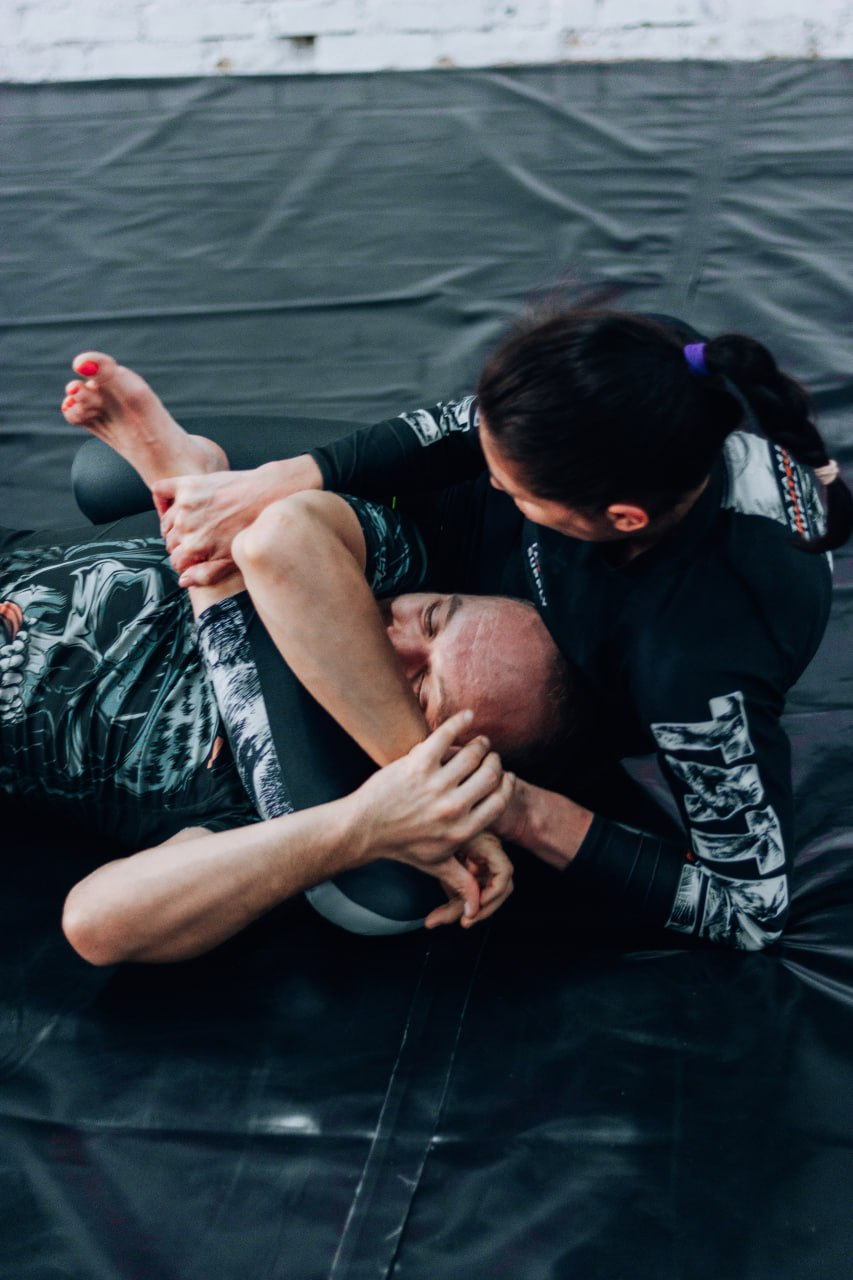
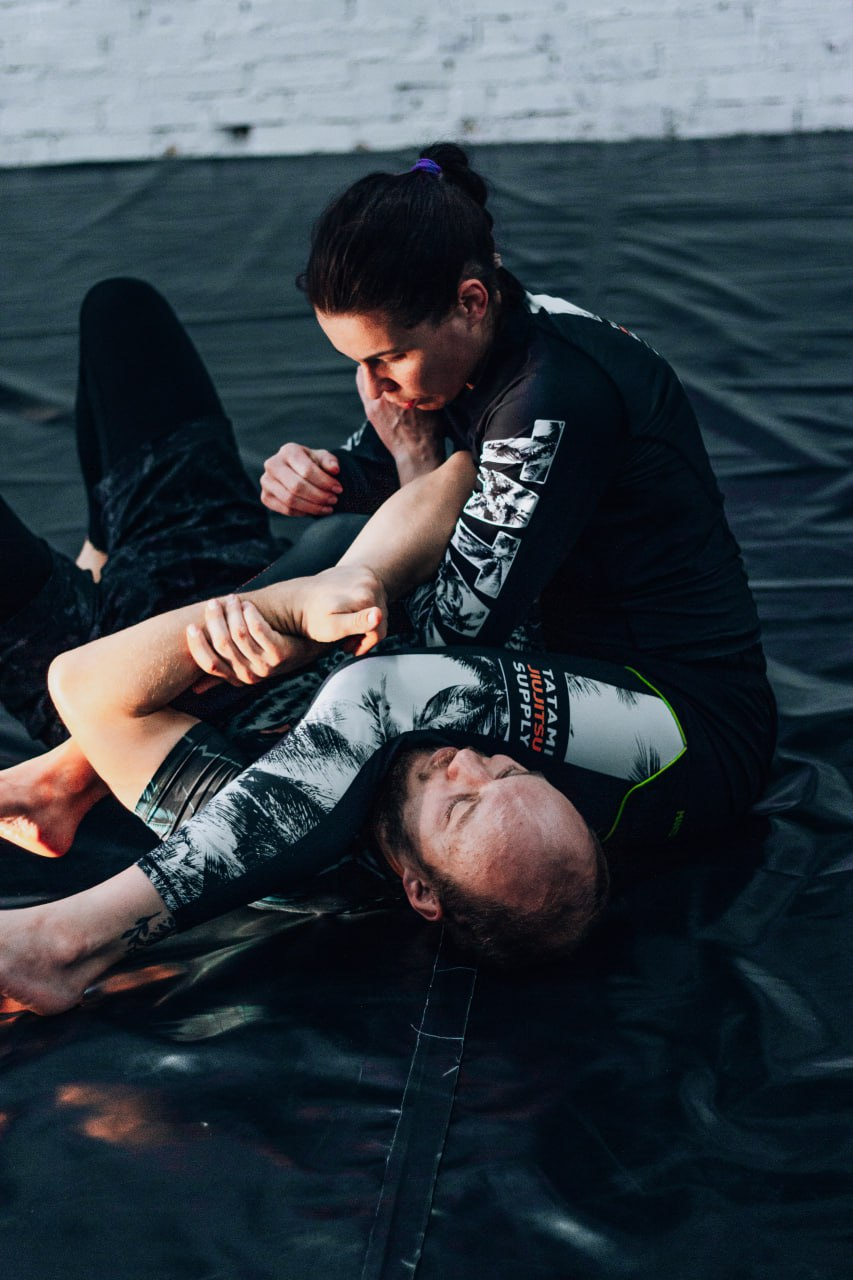
Update schedule page background

diff --git a/src/components/sections/SchedulePageSection.tsx b/src/components/sections/SchedulePageSection.tsx
@@ -39,15 +39,15 @@ export function SchedulePageSection({
         <Image
           alt=""
           aria-hidden="true"
-          className="object-cover object-center"
+          className="object-cover object-[center_24%] sm:object-[center_20%] lg:object-[center_18%]"
           fill
           priority
           sizes="100vw"
           src={content.backgroundImageSrc}
         />
-        <div className="absolute inset-0 bg-[linear-gradient(180deg,rgb(4_6_8_/_0.62)_0%,rgb(4_6_8_/_0.78)_26%,rgb(4_6_8_/_0.9)_100%)]" />
+        <div className="absolute inset-0 bg-[linear-gradient(180deg,rgb(4_6_8_/_0.78)_0%,rgb(4_6_8_/_0.82)_32%,rgb(4_6_8_/_0.88)_100%)]" />
         <div className="absolute inset-0 bg-[radial-gradient(circle_at_top,rgb(255_255_255_/_0.1),transparent_34%)]" />
-        <div className="absolute inset-0 bg-[linear-gradient(90deg,rgb(8_8_8_/_0.34)_0%,transparent_35%,transparent_65%,rgb(8_8_8_/_0.18)_100%)]" />
+        <div className="absolute inset-0 bg-[linear-gradient(90deg,rgb(8_8_8_/_0.38)_0%,transparent_32%,transparent_68%,rgb(8_8_8_/_0.24)_100%)]" />
       </div>
 
       <Container className="relative z-10 flex min-h-screen items-start py-28 sm:py-32 lg:py-36" size="wide">